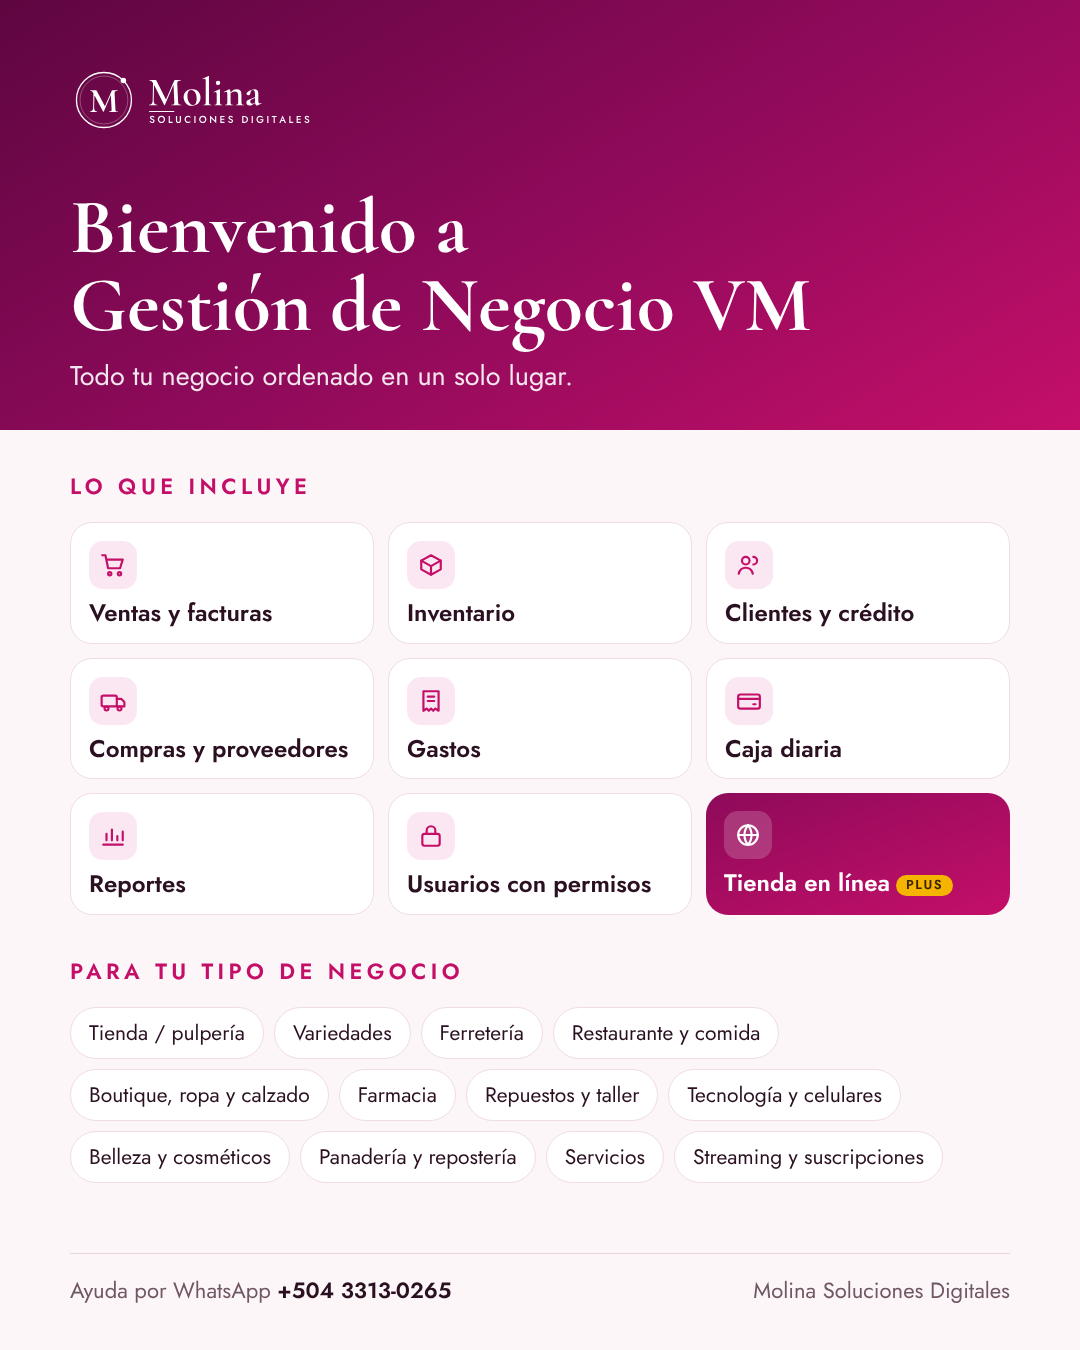
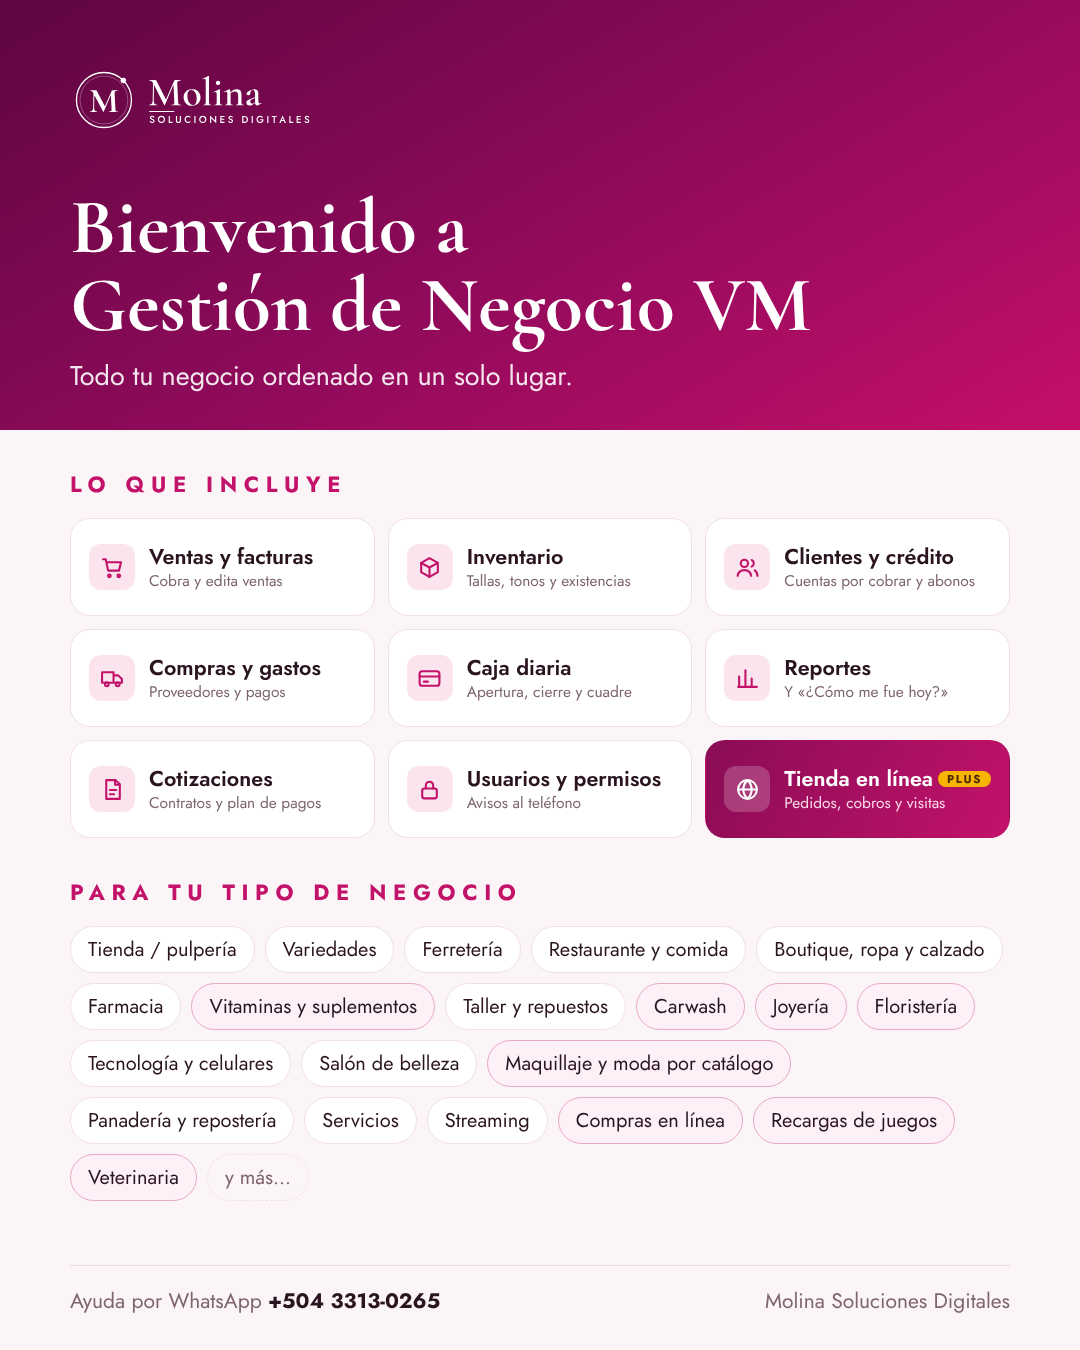
Imagen de bienvenida al día: 20 tipos de negocio y lo que incluye hoy el programa
Claude-Session: https://claude.ai/code/session_01Xc3LLcCJWg86amALaSzMCB

diff --git a/index.html b/index.html
@@ -3014,7 +3014,7 @@ async function panelResumen() {
 // El Panel abierto se actualiza solo: cada minuto y al volver a esta pantalla. Solo en las pestañas principales, sin una hoja abierta y sin estar escribiendo;
 // si nada cambió no se toca la pantalla, y si cambió se vuelve a pintar en el mismo lugar donde estabas.
 // «Escribiendo» = tecleó en los últimos 15 segundos (en el teléfono el buscador se queda con el foco aunque ya no se escriba, y eso frenaba la actualización)
-const PANEL_REV = 2; // sube cuando cambia el código del Panel: el Panel abierto se recarga solo para tomarlo
+const PANEL_REV = 3; // sube cuando cambia el código del Panel: el Panel abierto se recarga solo para tomarlo
 let pnTecleo = 0, pnAutoDesde = 0;
 document.addEventListener('input', () => { pnTecleo = Date.now(); }, true);
 const pnOcupado = () => PILA.length > 0 || !$('#main .pn') || P.tab === 'resp' || Date.now() - pnTecleo < 15000;
@@ -3575,7 +3575,7 @@ ACC.panelGasto = el => {
 };
 // Bienvenida: imagen con los módulos y tipos de negocio + mensaje de la plantilla «Bienvenida»
 function panelBienvenida(n) {
-  const IMG = 'bienvenida.png';
+  const IMG = 'bienvenida.png?v=2'; // ?v= salta la copia guardada en el teléfono: al cambiar la imagen, sube el número
   const h = hoja({ titulo: 'Bienvenida para ' + esc(n.negocio), html: `<img src="${IMG}" alt="Imagen de bienvenida" style="width:100%;border-radius:14px;display:block;margin-bottom:12px">
     <div class="msg-prev" style="white-space:pre-line;max-height:180px;overflow:auto">${esc((P.pl.bienvenida || '').replace(/\{dueno\}/g, String(n.dueno || '').split(' ')[0]).replace(/\{negocio\}/g, n.negocio))}</div>
     <p class="h" style="font-size:12px;margin:10px 0 0">1) Envía la imagen y elige el chat de ${esc(String(n.dueno || '').split(' ')[0])}. 2) Envía el mensaje (se abre su chat con el texto listo).</p>` });
